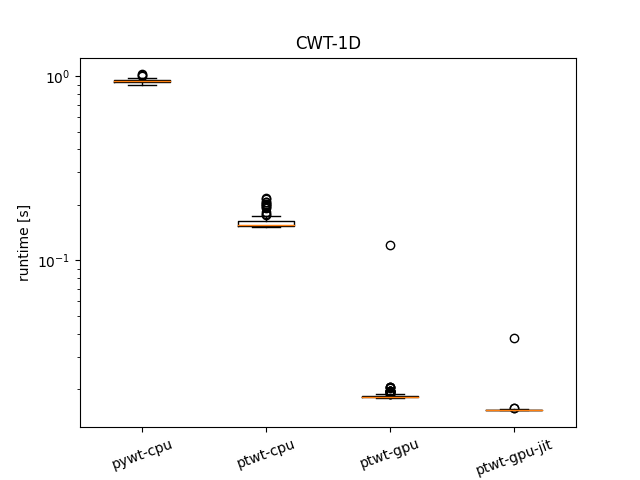
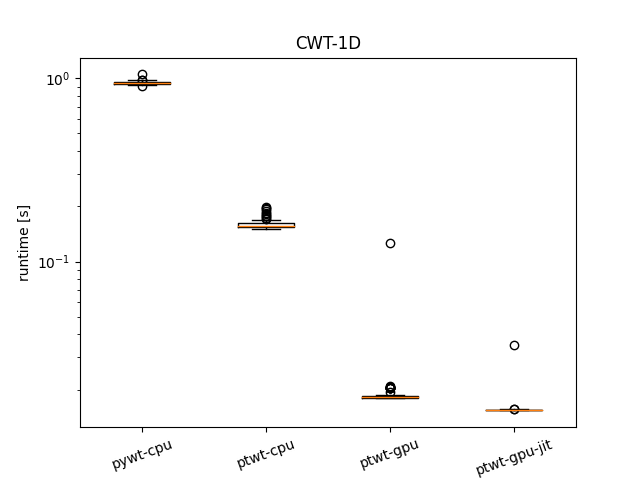
timeing updates.

diff --git a/examples/speed_tests/timeitconv_1d.py b/examples/speed_tests/timeitconv_1d.py
@@ -6,7 +6,6 @@ import time
 from typing import NamedTuple
 
 import matplotlib.pyplot as plt
-import tikzplotlib
 
 class WaveletTuple(NamedTuple):
     """Replaces namedtuple("Wavelet", ("dec_lo", "dec_hi", "rec_lo", "rec_hi"))."""
@@ -99,10 +98,10 @@ if __name__ == '__main__':
         ptwt_time_gpu_jit.append(end-start)
 
     print("1d fwt results")
-    print(f"1d-pywt-cpu:{np.mean(pywt_time_cpu):5.5f} +- {np.std(pywt_time_cpu):5.5f}")
-    print(f"1d-ptwt-cpu:{np.mean(ptwt_time_cpu):5.5f} +- {np.std(ptwt_time_cpu):5.5f}")    
+    print(f"1d-pywt-cpu    :{np.mean(pywt_time_cpu):5.5f} +- {np.std(pywt_time_cpu):5.5f}")
+    print(f"1d-ptwt-cpu    :{np.mean(ptwt_time_cpu):5.5f} +- {np.std(ptwt_time_cpu):5.5f}")    
     print(f"1d-ptwt-cpu-jit:{np.mean(ptwt_time_cpu_jit):5.5f} +- {np.std(ptwt_time_cpu_jit):5.5f}")
-    print(f"1d-ptwt-gpu:{np.mean(ptwt_time_gpu):5.5f} +- {np.std(ptwt_time_gpu):5.5f}")
+    print(f"1d-ptwt-gpu    :{np.mean(ptwt_time_gpu):5.5f} +- {np.std(ptwt_time_gpu):5.5f}")
     print(f"1d-ptwt-gpu-jit:{np.mean(ptwt_time_gpu_jit):5.5f} +- {np.std(ptwt_time_gpu_jit):5.5f}")
     # plt.semilogy(pywt_time_cpu, label='pywt-cpu')
     # plt.semilogy(ptwt_time_cpu, label='ptwt-cpu')
@@ -120,6 +119,5 @@ if __name__ == '__main__':
     plt.xticks(rotation=20)
     plt.ylabel('runtime [s]')
     plt.title('DWT-1D')
-    tikzplotlib.save("./figs/timeitconv1d.tex", standalone=True, encoding="utf8")
     plt.savefig('./figs/timeitconv1d.png')
     # plt.show()

diff --git a/examples/speed_tests/timeitcwt_1d.py b/examples/speed_tests/timeitcwt_1d.py
@@ -4,7 +4,6 @@ import pywt
 import time
 import numpy as np
 import matplotlib.pyplot as plt
-import tikzplotlib
 
 
 from ptwt.continuous_transform import _ShannonWavelet
@@ -86,14 +85,6 @@ if __name__ == '__main__':
     print(f"cwt-ptwt-cpu    :{np.mean(ptwt_time_cpu):5.5f} +- {np.std(ptwt_time_cpu):5.5f}")    
     print(f"cwt-ptwt-gpu    :{np.mean(ptwt_time_gpu):5.5f} +- {np.std(ptwt_time_gpu):5.5f}")
     print(f"cwt-ptwt-gpu-jit:{np.mean(ptwt_time_gpu_jit):5.5f} +- {np.std(ptwt_time_gpu_jit):5.5f}")
-    # plt.semilogy(pywt_time_cpu, label='pywt-cpu')
-    # plt.semilogy(ptwt_time_cpu, label='ptwt-cpu')
-    # plt.semilogy(ptwt_time_gpu, label='ptwt-gpu')
-    # plt.semilogy(ptwt_time_gpu_jit, label='ptwt-gpu-jit')
-    # plt.legend()
-    # plt.xlabel('repetition')
-    # plt.ylabel('runtime [s]')
-    # plt.show()
 
     time_stack = np.stack([pywt_time_cpu, ptwt_time_cpu, ptwt_time_gpu, ptwt_time_gpu_jit], -1)
     plt.boxplot(time_stack)
@@ -102,6 +93,4 @@ if __name__ == '__main__':
     plt.xticks(rotation=20)
     plt.ylabel('runtime [s]')
     plt.title('CWT-1D')
-    tikzplotlib.save("./figs/timeitcwt.tex", standalone=True, encoding="utf8")
     plt.savefig('./figs/timeitcwt.png')
-    # plt.show()

diff --git a/examples/speed_tests/timeitconv_3d.py b/examples/speed_tests/timeitconv_3d.py
@@ -7,7 +7,6 @@ import numpy as np
 import time
 
 import matplotlib.pyplot as plt
-import tikzplotlib
 
 
 class WaveletTuple(NamedTuple):
@@ -106,15 +105,6 @@ if __name__ == '__main__':
     print(f"3d-ptwt-cpu    :{np.mean(ptwt_time_cpu):5.5f} +- {np.std(ptwt_time_cpu):5.5f}")
     print(f"3d-ptwt-gpu    :{np.mean(ptwt_time_gpu):5.5f} +- {np.std(ptwt_time_gpu):5.5f}")
     print(f"3d-ptwt-gpu-jit:{np.mean(ptwt_time_gpu_jit):5.5f} +- {np.std(ptwt_time_gpu_jit):5.5f}")
-    # plt.semilogy(pywt_time_cpu, label='pywt-cpu')
-    # plt.semilogy(ptwt_time_cpu, label='ptwt-cpu')
-    # plt.semilogy(ptwt_time_gpu, label='ptwt-gpu')
-    # plt.semilogy(ptwt_time_gpu_jit, label='ptwt-gpu-jit')
-    # plt.legend()
-    # plt.xlabel('repetition')
-    # plt.ylabel('runtime [s]')
-    # plt.show()
-
 
     time_stack = np.stack([pywt_time_cpu, ptwt_time_cpu, ptwt_time_gpu, ptwt_time_gpu_jit], -1)
     plt.boxplot(time_stack)
@@ -123,6 +113,4 @@ if __name__ == '__main__':
     plt.xticks(rotation=20)
     plt.ylabel('runtime [s]')
     plt.title('DWT-3D')
-    tikzplotlib.save("./figs/timeitconv3d.tex", standalone=True, encoding="utf8")
     plt.savefig('./figs/timeitconv3d.png')
-    # plt.show()

diff --git a/examples/speed_tests/timeitconv_2dmat.py b/examples/speed_tests/timeitconv_2dmat.py
@@ -1,5 +1,3 @@
-from typing import NamedTuple
-
 import pywt
 import ptwt
 import torch
@@ -7,7 +5,6 @@ import numpy as np
 import time
 
 import matplotlib.pyplot as plt
-import tikzplotlib
 
 
 if __name__ == '__main__':
@@ -69,6 +66,4 @@ if __name__ == '__main__':
     plt.xticks(rotation=20)
     plt.ylabel('runtime [s]')
     plt.title('DWT-2D-boundary')
-    tikzplotlib.save("./figs/timeitconv2dmat.tex", standalone=True, encoding="utf8")
     plt.savefig('./figs/timeitconv2dmat.png')
-    # plt.show()

diff --git a/examples/speed_tests/timeitconv_1dmat.py b/examples/speed_tests/timeitconv_1dmat.py
@@ -3,10 +3,8 @@ import ptwt
 import torch
 import numpy as np
 import time
-from typing import NamedTuple
 
 import matplotlib.pyplot as plt
-import tikzplotlib
 
 
 if __name__ == '__main__':
@@ -66,5 +64,4 @@ if __name__ == '__main__':
     plt.xticks(rotation=20)
     plt.ylabel('runtime [s]')
     plt.title('DWT-1D-boundary')
-    tikzplotlib.save("./figs/timeitconv1dmat.tex", standalone=True, encoding="utf8")
     plt.savefig('./figs/timeitconv1dmat.png')

diff --git a/examples/speed_tests/timeitconv_2d_separable.py b/examples/speed_tests/timeitconv_2d_separable.py
@@ -8,7 +8,6 @@ import time
 from pytorch_wavelets import DWTForward
 
 import matplotlib.pyplot as plt
-import tikzplotlib
 
 
 class WaveletTuple(NamedTuple):
@@ -164,6 +163,4 @@ if __name__ == '__main__':
     plt.xticks(rotation=20)
     plt.ylabel('runtime [s]')
     plt.title('DWT-2D-separable')
-    tikzplotlib.save("figs/timeitconv2d_sep.tex", standalone=True)
     plt.savefig('figs/timeitconv2d_sep.png')
-    # plt.show()

diff --git a/examples/speed_tests/timeitconv_2d.py b/examples/speed_tests/timeitconv_2d.py
@@ -7,7 +7,6 @@ import numpy as np
 import time
 
 import matplotlib.pyplot as plt
-import tikzplotlib
 
 
 class WaveletTuple(NamedTuple):
@@ -120,6 +119,4 @@ if __name__ == '__main__':
     plt.xticks(rotation=20)
     plt.ylabel('runtime [s]')
     plt.title('DWT-2D')
-    tikzplotlib.save("./figs/timeitconv2d.tex", standalone=True, encoding="utf8")
     plt.savefig('./figs/timeitconv2d.png')
-    # plt.show()

diff --git a/examples/speed_tests/readme.md b/examples/speed_tests/readme.md
@@ -12,11 +12,12 @@ python timeitconv_1d.py
 it produces the output and plot below:
 
 ```bash
-1d-pywt-cpu    :0.25709 +- 0.00751
-1d-ptwt-cpu    :0.42198 +- 0.00624
-1d-ptwt-cpu-jit:0.42223 +- 0.00571
-1d-ptwt-gpu    :0.00878 +- 0.04315
-1d-ptwt-gpu-jit:0.00440 +- 0.00055
+1d-pywt-cpu    :0.25841 +- 0.00907
+1d-ptwt-cpu    :0.40286 +- 0.00638
+1d-ptwt-cpu-jit:0.40119 +- 0.00537
+1d-ptwt-gpu    :0.00887 +- 0.04413
+1d-ptwt-gpu-jit:0.00439 +- 0.00051
+
 ```
 
 The 1d cython code from the pywt library does pretty well on our CPU. However, ptwt supports GPUs, which provide a speedup by several orders of magnitude.
@@ -31,10 +32,10 @@ python timeitconv_2d.py
 ```
 Result:
 ```bash
-2d-pywt-cpu    :0.55641 +- 0.01785
-2d-ptwt-cpu    :0.19519 +- 0.02337
-2d-ptwt-gpu    :0.01468 +- 0.04192
-2d-ptwt-gpu-jit:0.01110 +- 0.00051
+2d-pywt-cpu    :0.54936 +- 0.00924
+2d-ptwt-cpu    :0.17453 +- 0.01335
+2d-ptwt-gpu    :0.01447 +- 0.03995
+2d-ptwt-gpu-jit:0.01110 +- 0.00050
 ```
 
 ![2d-speed](figs/timeitconv2d.png)
@@ -44,13 +45,12 @@ Result:
 Separable transforms are also commonly implemented. Pytorch-wavelets does this see (2d-fwt-object)[https://github.com/fbcotter/pytorch_wavelets/blob/9a0c507f04f43c5397e384bb6be8340169b2fd9a/pytorch_wavelets/dwt/transform2d.py#L70] and the (underlying implementation)[https://github.com/fbcotter/pytorch_wavelets/blob/9a0c507f04f43c5397e384bb6be8340169b2fd9a/pytorch_wavelets/dwt/lowlevel.py#L312] . We study the performance with periodic padding below:
 
 ```bash
-2d-pywt-cpu:0.93269 +- 0.00272
-2d-pytorch_wavelets-cpu:0.41937 +- 0.00649
-2d-pytorch_wavelets-gpu:0.01481 +- 0.04748
-2d-ptwt-cpu    :0.55668 +- 0.01268
-2d-ptwt-cpu-jit:0.54582 +- 0.00561
-2d-ptwt-gpu    :0.00993 +- 0.00068
-2d-ptwt-gpu-jit:0.00889 +- 0.00169
+2d-pywt-cpu:0.92772 +- 0.00295
+2d-pytorch_wavelets-cpu:0.40189 +- 0.00727
+2d-pytorch_wavelets-gpu:0.01474 +- 0.04667
+2d-ptwt-cpu    :0.52484 +- 0.00790
+2d-ptwt-gpu    :0.00995 +- 0.00062
+2d-ptwt-gpu-jit:0.00886 +- 0.00171
 ```
 
 
@@ -67,10 +67,10 @@ python timeitconv_3d.py
 for the three-dimensional case. It should produce something like the output below:
 
 ```bash
-3d-pywt-cpu:0.83785 +- 0.03117
-3d-ptwt-cpu:0.35998 +- 0.03619
-3d-ptwt-gpu:0.00499 +- 0.04062
-3d-ptwt-jit:0.01852 +- 0.17757
+3d-pywt-cpu    :0.81744 +- 0.01047
+3d-ptwt-cpu    :0.39827 +- 0.04912
+3d-ptwt-gpu    :0.08047 +- 0.04310
+3d-ptwt-gpu-jit:0.08096 +- 0.00410
 ```
 
 ![3d-speed](figs/timeitconv3d.png)
@@ -88,10 +88,10 @@ python timeitcwt_1d.py
 to reproduce the result. We observe:
 
 ```bash
-cwt-pywt-cpu:0.70588 +- 0.01531
-cwt-ptwt-cpu:0.16132 +- 0.00837
-cwt-ptwt-gpu:0.01798 +- 0.00392
-cwt-ptwt-jit:0.00360 +- 0.00870
+cwt-pywt-cpu    :0.94439 +- 0.01742
+cwt-ptwt-cpu    :0.16029 +- 0.00925
+cwt-ptwt-gpu    :0.01957 +- 0.01081
+cwt-ptwt-gpu-jit:0.01566 +- 0.00193
 ```
 on our hardware.
 
